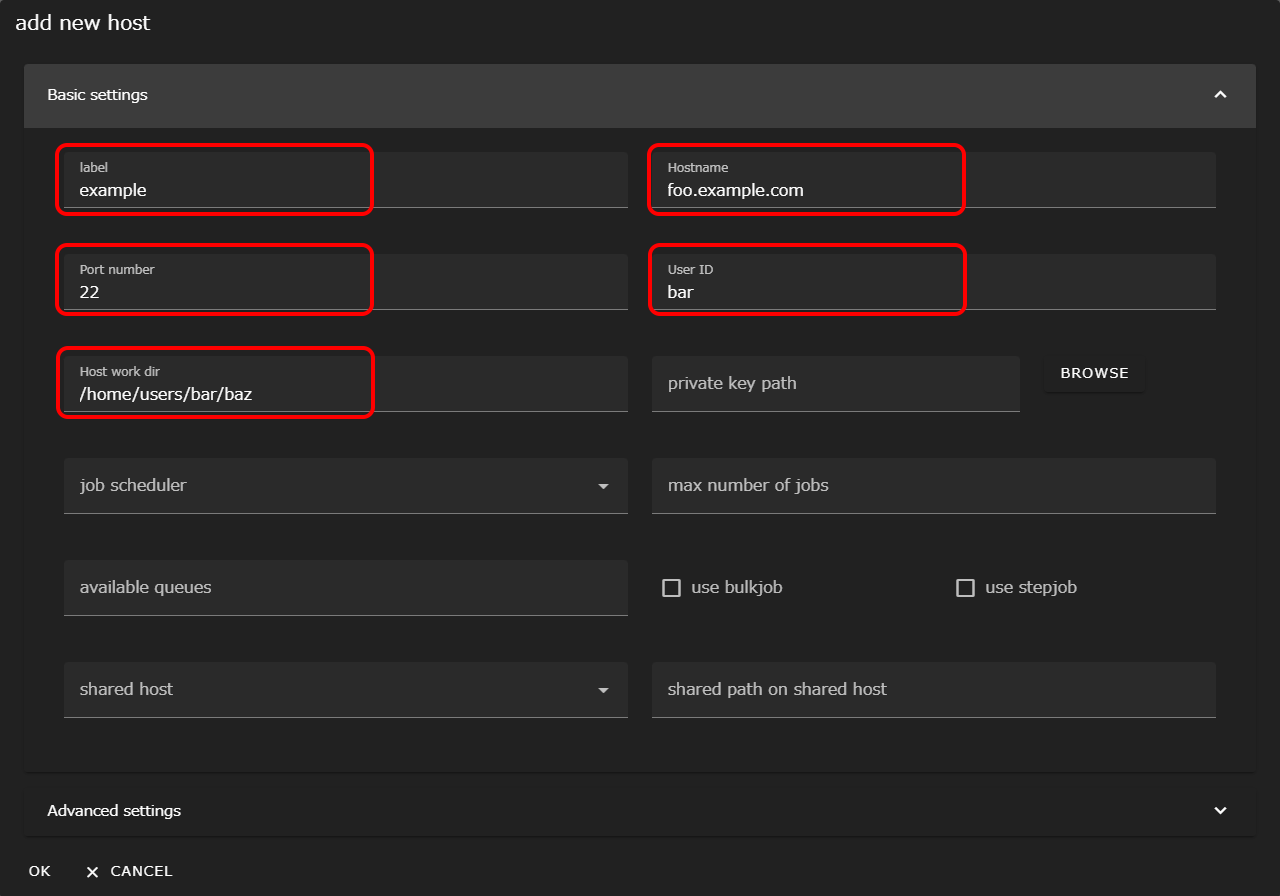
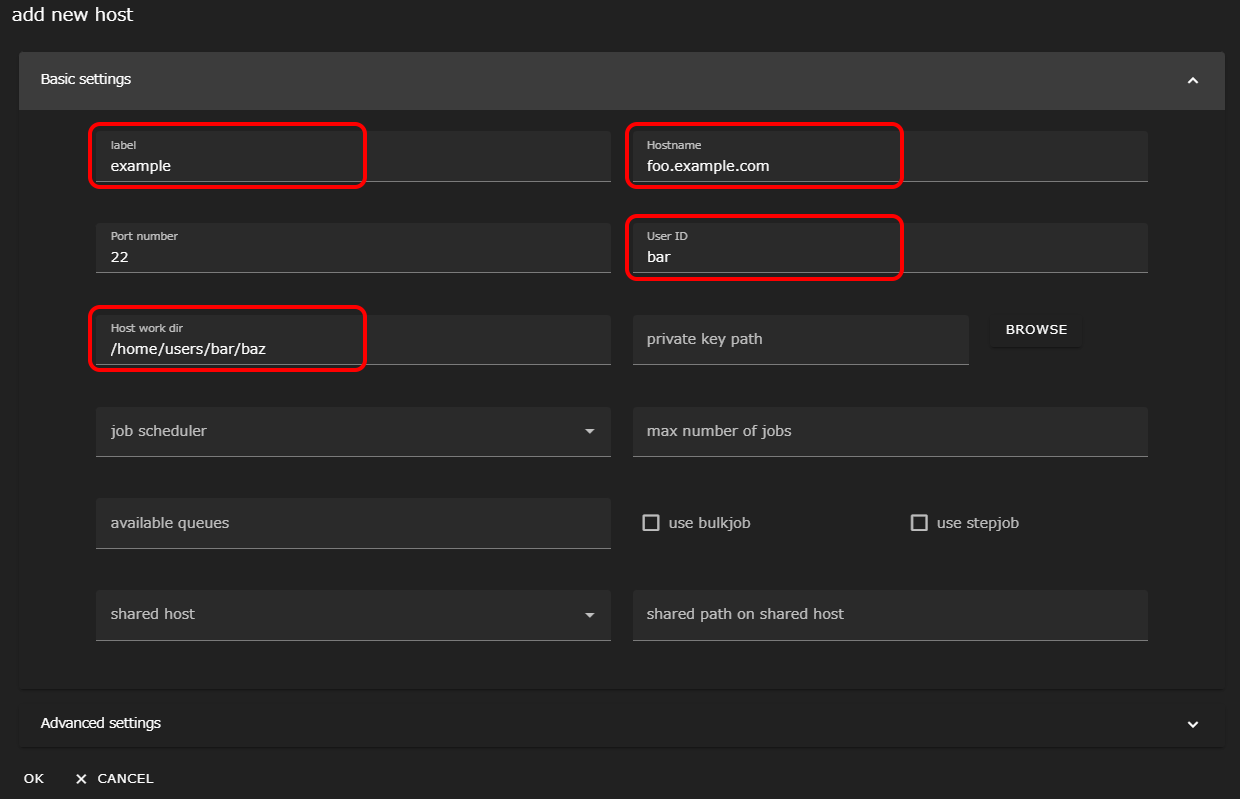
fix image

diff --git a/documentMD/user_guide/_how_to_boot/index.md b/documentMD/user_guide/_how_to_boot/index.md
@@ -94,9 +94,9 @@ label
 Hostname
 : 接続先のホスト名またはIPアドレス
 
-Port number
+<!-- Port number
 : 接続先のポート番号
-
+-->
 User ID
 : 接続先ホストでのユーザID
 

diff --git a/documentMD/user_guide/_how_to_boot/index.en.md b/documentMD/user_guide/_how_to_boot/index.en.md
@@ -96,9 +96,9 @@ label
 Hostname
 : Host name or IP address to connect to
 
-Port number
+<!-- Port number
 : Port number to connect to
-
+-->
 User ID
 : User ID on the destination host
 
